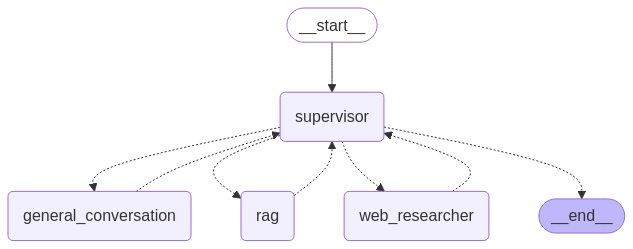
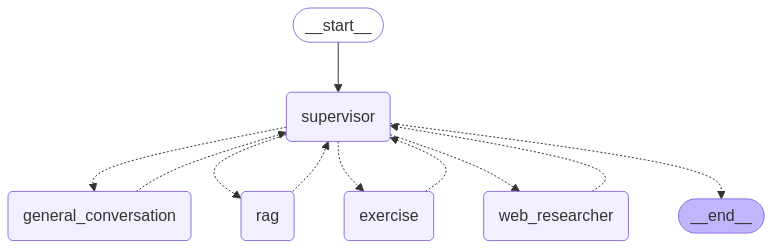
add exercise agent and update session id

diff --git a/agents.py b/agents.py
@@ -1,5 +1,6 @@
 # Load environment variables
 import os
+import uuid
 from typing import Annotated, Dict, List, Literal, Sequence
 
 from dotenv import load_dotenv
@@ -13,10 +14,9 @@ from langgraph.prebuilt import ToolNode, tools_condition
 from langgraph.types import Command
 from pydantic import BaseModel
 from typing_extensions import TypedDict
-from typing import Literal
 
-
-from vector_store import clark_retriever_tool
+from vector_store import (clark_retriever_tool,  # Import both tools
+                          exercise_retriever_tool)
 
 load_dotenv()
 OPENAI_API_KEY = os.environ['OPENAI_API_KEY']
@@ -25,38 +25,41 @@ TAVILY_API_KEY = os.environ['TAVILY_API_KEY']
 # Initialize LLM
 llm = ChatOpenAI(model_name="gpt-4o-mini", temperature=0.8)
 
-# Define available agents
-members = ["general_conversation", "web_researcher", "rag"]
+# Define available agents (added 'exercise')
+members = ["general_conversation", "web_researcher", "rag", "exercise"]
 options = members + ["FINISH"]
 
-# Supervisor system prompt
+# Updated Supervisor system prompt
 system_prompt = """
-You are a supervisor managing a conversation between a user and AI agents: a general conversation agent, a RAG agent, and a web researcher agent.
+You are a supervisor managing a conversation between a user and AI agents: a general conversation agent, a RAG agent, a web researcher agent, and an exercise agent.
 
 - The general conversation agent handles small talk and guides users toward cybersecurity topics.
-- The RAG agent searches through the CLARK library, a compilation of high-value cybersecurity curriculum.
+- The RAG agent searches through the CLARK library for cybersecurity information.
 - The web researcher agent searches the internet for additional information.
+- The exercise agent provides exercises or generates questions for students to practice cybersecurity topics.
 
 Your task is to route the conversation to the appropriate agent or to finish the conversation based on the following rules:
 
 1. For any user query:
    - If it's small talk, a greeting, or a casual conversation, route to 'general_conversation'.
    - If it's a cybersecurity question, route to 'rag' to search the CLARK library.
-   - if it's a question cannot be answered by the other agent, route to 'web_researcher'.
+   - If it's a request for exercises or practice questions on a cybersecurity topic, route to 'exercise'.
+   - If it's a question that cannot be answered by the other agents, route to 'web_researcher'.
    - The conversation can freely move between agents as needed.
 2. After the 'general_conversation' agent responds, route to 'FINISH'.
 3. After the 'rag' agent responds, route to 'FINISH'.
 4. After the 'web_researcher' agent responds, route to 'FINISH'.
+5. After the 'exercise' agent responds, route to 'FINISH'.
 
 Your routing should be flexible based on each new user message, not bound by a predetermined sequence.
 
-Respond with a JSON object containing the key 'next' and the value being one of: 'general_conversation', 'rag', 'web_researcher', or 'FINISH'. For example: {"next": "general_conversation"}
+Respond with a JSON object containing the key 'next' and the value being one of: 'general_conversation', 'rag', 'web_researcher', 'exercise', or 'FINISH'. For example: {"next": "exercise"}
 """
 
 class Router(TypedDict):
-    next: Literal["general_conversation", "rag", "web_researcher", "FINISH"]
+    next: Literal["general_conversation", "rag", "exercise", "web_researcher", "FINISH"]
 
-def supervisor_node(state: MessagesState) -> Command[Literal["general_conversation", "rag", "web_researcher", "__end__"]]:
+def supervisor_node(state: MessagesState) -> Command[Literal["general_conversation", "rag",  "exercise", "web_researcher", "__end__"]]:
     messages = [{"role": "system", "content": system_prompt}] + state["messages"]
     response = llm.with_structured_output(Router).invoke(messages)
     goto = response["next"]
@@ -69,9 +72,8 @@ def supervisor_node(state: MessagesState) -> Command[Literal["general_conversati
 class AgentState(TypedDict):
     messages: Annotated[Sequence[BaseMessage], add_messages]
 
-# Function to create an agent
+# Function to create an agent (unchanged)
 def create_agent(llm, tools, system_prompt: str = ""):
-    """Create an agent with the specified LLM, tools, and system prompt."""
     llm_with_tools = llm.bind_tools(tools)
     def chatbot(state: AgentState):
         messages = (
@@ -89,7 +91,7 @@ def create_agent(llm, tools, system_prompt: str = ""):
     graph_builder.set_entry_point("agent")
     return graph_builder.compile()
 
-# General Conversation Agent
+# General Conversation Agent (unchanged)
 general_conversation_system_prompt = """
 You are a friendly cybersecurity teaching assistant named CyberGuide. Your primary goal is to help students learn about cybersecurity concepts.
 
@@ -112,7 +114,7 @@ def general_conversation_node(state: MessagesState) -> Command[Literal["supervis
         goto="supervisor",
     )
 
-# Web Researcher Agent
+# Web Researcher Agent (unchanged)
 web_search_tool = TavilySearchResults(max_results=2)
 web_researcher_system_prompt = """
 You are an AI assistant tasked with searching the internet for information to answer the user's query about cybersecurity.
@@ -128,7 +130,7 @@ def web_research_node(state: MessagesState) -> Command[Literal["supervisor"]]:
         goto="supervisor",
     )
 
-# RAG Agent
+# Updated RAG Agent with exercise suggestion
 rag_system_prompt = """
 You are CyberGuide, an AI assistant tasked with retrieving and presenting cybersecurity educational resources from the CLARK library.
 
@@ -140,6 +142,7 @@ In your response:
 2. Clearly mention the source metadata (collection name, course name, module name)
 3. Explain cybersecurity concepts in an educational manner appropriate for students
 4. If the content is complex, provide additional explanations to make it more accessible
+5. After presenting the information, suggest to the user: "If you'd like to practice with some exercises on this topic, just let me know!"
 
 Always maintain a helpful, encouraging tone to support students in their cybersecurity learning journey.
 
@@ -154,22 +157,42 @@ def rag_node(state: MessagesState) -> Command[Literal["supervisor"]]:
         goto="supervisor",
     )
 
-# Build the graph with a simplified structure
+# New Exercise Agent
+exercise_system_prompt = """
+You are CyberGuide, an AI assistant tasked with providing cybersecurity exercises or generating questions for students.
+
+When a user asks for exercises on a topic, follow these steps:
+1. Use the exercise_retriever_tool to search for exercises in the CLARK library.
+2. If the tool returns exercises, present them to the user, including the source metadata.
+3. If the tool returns "No exercises found in the CLARK library for this topic.", generate 3-5 questions related to the topic to help the student practice.
+
+When generating questions, make them relevant to the topic and suitable for a student's learning level. You can create multiple-choice, true/false, or short answer questions.
+
+Always maintain an encouraging tone to support students in their learning.
+"""
+exercise_agent = create_agent(llm, [exercise_retriever_tool], exercise_system_prompt)
+
+def exercise_node(state: MessagesState) -> Command[Literal["supervisor"]]:
+    result = exercise_agent.invoke(state)
+    return Command(
+        update={"messages": [HumanMessage(content=result["messages"][-1].content, name="exercise")]},
+        goto="supervisor",
+    )
+
+# Build the graph with the new exercise node (unchanged from previous)
 builder = StateGraph(MessagesState)
 builder.add_edge(START, "supervisor")
 builder.add_node("supervisor", supervisor_node)
 builder.add_node("general_conversation", general_conversation_node)
 builder.add_node("web_researcher", web_research_node)
 builder.add_node("rag", rag_node)
-
-# No need for explicit edges back to supervisor - they're handled by the Command(goto="supervisor") 
-# in each agent node's function
+builder.add_node("exercise", exercise_node)
 
 # Add memory to persist conversation state
 memory = MemorySaver()
 graph = builder.compile(checkpointer=memory)
 
-# Save graph visualization to a file
+# Save graph visualization to a file (unchanged)
 try:
     graph_image = graph.get_graph().draw_mermaid_png()
     with open("graph.png", "wb") as f:
@@ -178,30 +201,35 @@ try:
 except Exception as e:
     print(f"Error saving graph: {e}")
 
-def chat_with_graph(graph, thread_id: str) -> Dict[str, str]:
+def chat_with_graph(graph, thread_id: str = None) -> Dict[str, str]:
     """
     Run an interactive chatbot session with the LangGraph workflow, handling multiple questions.
 
     Args:
         graph: The compiled LangGraph instance.
-        thread_id: A unique identifier for the conversation thread.
+        thread_id: A unique identifier for the conversation thread. If None, a new UUID is generated.
 
     Returns:
         Dict containing the final conversation state (last query, final answer, and all steps).
     """
-    # Initialize persistent state with a thread_id for the checkpointer
-    config = {"configurable": {"thread_id": thread_id}}  # Unique thread ID for this session
+    # Generate a new session ID if none provided
+    if thread_id is None:
+        thread_id = str(uuid.uuid4())  # e.g., "550e8400-e29b-41d4-a716-446655440000"
+    
+    # Initialize persistent state with the thread_id for the checkpointer
+    config = {"configurable": {"thread_id": thread_id}}
     state = {"messages": []}
     
     # Result dictionary to store conversation summary
     result_info = {
         "last_query": "",
         "final_answer": "",
-        "steps": []
+        "steps": [],
+        "session_id": thread_id  # Include session ID in the result
     }
 
-    # Print welcome message
-    print(f"{'='*50}\nWelcome to the Cybersecurity Chatbot!\nType your question or 'exit' to quit.\n{'='*50}")
+    # Print welcome message with session ID
+    print(f"{'='*50}\nWelcome to the Cybersecurity Chatbot!\nSession ID: {thread_id}\nType your question or 'exit' to quit.\n{'='*50}")
 
     while True:
         # Get user input
@@ -209,7 +237,7 @@ def chat_with_graph(graph, thread_id: str) -> Dict[str, str]:
         
         # Check for exit condition
         if query.lower() in ["exit", "quit"]:
-            print(f"{'='*50}\nChat session ended.\n{'='*50}")
+            print(f"{'='*50}\nChat session ended.\nSession ID: {thread_id}\n{'='*50}")
             break
 
         # Update state with new user message
@@ -220,7 +248,7 @@ def chat_with_graph(graph, thread_id: str) -> Dict[str, str]:
         print(f"{'='*50}\nProcessing Query: '{query}'\n{'='*50}")
 
         # Execute the graph with the current state and config
-        result = graph.invoke(state, config=config)  # Pass config with thread_id
+        result = graph.invoke(state, config=config)
         messages = result["messages"]
 
         # Process each new message since the last turn
@@ -244,7 +272,7 @@ def chat_with_graph(graph, thread_id: str) -> Dict[str, str]:
             print("-" * 50)
             result_info["steps"].append(step_info)
 
-        # Extract final answer for this turn (last agent message)
+        # Extract final answer for this turn
         final_answer = next(
             (msg.content for msg in reversed(messages) if hasattr(msg, "name") and msg.name and msg.name not in ["supervisor", None]),
             "No answer provided."
@@ -260,5 +288,6 @@ def chat_with_graph(graph, thread_id: str) -> Dict[str, str]:
     return result_info
 
 if __name__ == "__main__":
-    # Run the chat with a unique thread_id
-    result = chat_with_graph(graph, 'test_12345')
+    # Run the chat without specifying a thread_id to generate a new one
+    result = chat_with_graph(graph)
+    print(f"Session completed. Session ID was: {result['session_id']}")

diff --git a/vector_store.py b/vector_store.py
@@ -14,12 +14,10 @@ from pydantic import BaseModel
 load_dotenv()
 OPENAI_API_KEY = os.environ['OPENAI_API_KEY']
 
-# Function to recursively find all PDFs
 def get_all_pdfs(directory: str) -> List[str]:
     """Recursively find all PDF files in the given directory."""
     return glob.glob(f"{directory}/**/*.pdf", recursive=True)
 
-# Function to load or create the CLARK vector store
 def load_clark_vectorstore(db_path: str, base_dir: str):
     """
     Load an existing FAISS vector store from db_path or create a new one from PDFs in base_dir.
@@ -51,7 +49,6 @@ def load_clark_vectorstore(db_path: str, base_dir: str):
         documents = []
         for pdf_path in pdf_files:
             try:
-                # Extract metadata from the file path
                 parts = pdf_path.split(os.sep)
                 if len(parts) >= 4:
                     collection_name = parts[-4]
@@ -63,7 +60,6 @@ def load_clark_vectorstore(db_path: str, base_dir: str):
                     course_name = "unknown_course"
                     module_name = "unknown_module"
                     file_name = os.path.basename(pdf_path)
-
                 loader = PyPDFLoader(pdf_path)
                 pages = loader.load()
                 for page in pages:
@@ -78,7 +74,6 @@ def load_clark_vectorstore(db_path: str, base_dir: str):
                 print(f"Loaded {pdf_path} with metadata")
             except Exception as e:
                 print(f"Error loading {pdf_path}: {e}")
-
         text_splitter = RecursiveCharacterTextSplitter(chunk_size=2000, chunk_overlap=200)
         docs = text_splitter.split_documents(documents)
         embeddings = OpenAIEmbeddings()
@@ -87,14 +82,11 @@ def load_clark_vectorstore(db_path: str, base_dir: str):
         print(f"CLARK Vector DB created at {db_path} with {vectorstore.index.ntotal} documents")
     return vectorstore
 
-# Define paths
 clark_db_path = "db/clark_db/clark_library_db"
 clark_base_dir = "rag/clark_doc"
-
-# Initialize the vector store
 clark_vectorstore = load_clark_vectorstore(clark_db_path, clark_base_dir)
 
-# Define the RAG retrieval tool
+# RAG retrieval tool with docstring
 class RagToolSchema(BaseModel):
     question: str
 
@@ -113,19 +105,58 @@ def clark_retriever_tool(question: str) -> str:
     Returns:
         str: Formatted response with retrieved content and metadata.
     """
-    # print("INSIDE CLARK RETRIEVER NODE")
     retriever = clark_vectorstore.as_retriever(search_kwargs={"k": 3})
     retriever_result = retriever.invoke(question)
-
     if not retriever_result:
         return "No relevant cybersecurity information found in the CLARK library."
-
     formatted_response = []
     for doc in retriever_result:
         metadata = doc.metadata
         entry = (
             f"**Content:**\n{doc.page_content}\n\n"
             f"**Metadata:**\n"
+            f"- Collection: {metadata['collection_name']}\n"
+            f"- Course: {metadata['course_name']}\n"
+            f"- Module: {metadata['module_name']}\n"
+            f"- File: {metadata['file_name']}\n"
+            f"- Path: {metadata['file_path']}"
+        )
+        formatted_response.append(entry)
+    return "\n\n---\n\n".join(formatted_response)
+
+# Exercise retrieval tool with docstring
+class ExerciseToolSchema(BaseModel):
+    topic: str
+
+@tool(args_schema=ExerciseToolSchema)
+def exercise_retriever_tool(topic: str) -> str:
+    """
+    Retrieve cybersecurity exercises from the CLARK library based on the given topic.
+    
+    This tool searches the CLARK library for content related to exercises, such as quizzes, labs, or practice questions,
+    and returns them with metadata. If no exercises are found, it indicates so for further processing.
+    
+    Args:
+        topic (str): The cybersecurity topic for which to find exercises.
+    
+    Returns:
+        str: Formatted response with retrieved exercises and metadata, or a message if none are found.
+    """
+    retriever = clark_vectorstore.as_retriever(search_kwargs={"k": 5})
+    retriever_result = retriever.invoke(f"exercises on {topic}")
+    exercise_docs = [
+        doc for doc in retriever_result
+        if any(keyword in doc.page_content.lower() for keyword in ["exercise", "question", "quiz", "lab"])
+        or any(keyword in doc.metadata.get("file_name", "").lower() for keyword in ["exercise", "quiz", "lab"])
+    ]
+    if not exercise_docs:
+        return "No exercises found in the CLARK library for this topic."
+    formatted_response = []
+    for doc in exercise_docs:
+        metadata = doc.metadata
+        entry = (
+            f"**Exercise Content:**\n{doc.page_content}\n\n"
+            f"**Source:**\n"
             f"- Collection: {metadata['collection_name']}\n"
             f"- Course: {metadata['course_name']}\n"
             f"- Module: {metadata['module_name']}\n"
